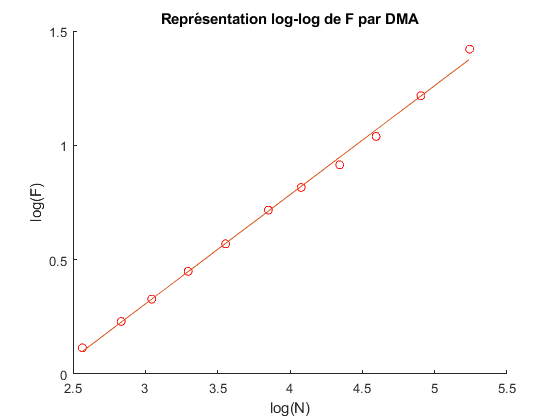
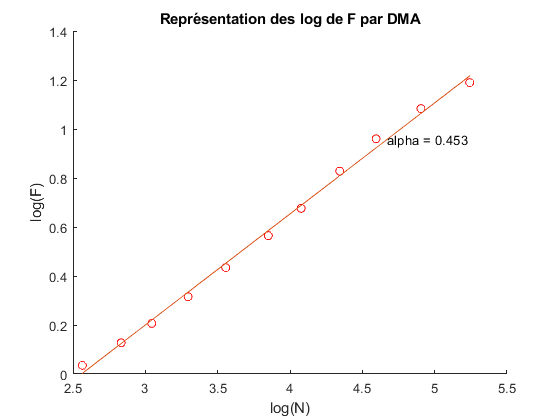
Fin projet

diff --git a/main.m b/main.m
@@ -7,7 +7,27 @@ M = 2001;
 bb1 = randn(1, M);
 bb2 = 9 * randn(1,M) + 7;
 
-%% représentations fréquentielles
+%% plot bb
+
+plot(bb1);
+xlabel('Temps (s)');
+ylabel('A');
+xlim([0;M]);
+xticks([0,500,1000,1500,2000])
+xticklabels({'0', '0.5', '1', '1.5', '2'});
+title("Représentation bruit blanc centré");
+%% tf bb
+
+tf = fft(bb1(:));
+
+plot(fftshift(abs(tf)));
+xlim([0, 2001]);
+xticks([0, 1000, 2001]);
+xticklabels(["-0.5", "0", "0.5"]);
+ylabel("|TF(y)|");
+xlabel("Fréquences (Hz)");
+
+%% Spectrogrammes
 
 clc
 clear all
@@ -21,46 +41,36 @@ bb2 = 9 * randn(1,M) + 7;
 
 % spectrogramme bb1
 figure, 
-subplot(2,1,1);
-plot(bb1);
-xlabel('Temps en secondes');
-ylabel('Intensité signal');
-xlim([0;M]);
-xticks([0,500,1000,1500,2000])
-xticklabels({'0', '0.5', '1', '1.5', '2'});
-xlabel('Temps en secondes');
-ylabel("A");
-title("Représentation bruit blanc centré");
-
-subplot(2,1,2);
 spectrogram(bb1, sqrt(M), 'yaxis');
 xlabel('Temps en secondes');
 ylabel('Frequences');
 xlim([0;M]);
 xticks([0,500,1000,1500,2000])
 xticklabels({'0', '0.5', '1', '1.5', '2'});
+title("Bruit blanc centré");
 
 
 % spectrogramme bb2
 figure, 
-subplot(2,1,1);
-plot(bb2);
-xlim([0;M]);
-xticks([0,500,1000,1500,2000])
-xticklabels({'0', '0.5', '1', '1.5', '2'});
-xlabel('Temps en secondes');
-ylabel("A");
-title("Représentation bruit blanc non-centré");
-
-subplot(2,1,2);
-spectrogram(bb2, sqrt(M), 'yaxis');
+spectrogram(bb2 - mean(bb2), sqrt(M), 'yaxis');
 xlabel('Temps en secondes');
 ylabel('Frequences');
 xlim([0;M]);
 xticks([0,500,1000,1500,2000]);
 xlabel('Temps en secondes');
 xticklabels({'0', '0.5', '1', '1.5', '2'});
+title("Bruit blanc non-centré");
 
+% spectrogramme bb2 recentré
+figure, 
+spectrogram(bb2 - mean(bb2), sqrt(M), 'yaxis');
+xlabel('Temps en secondes');
+ylabel('Frequences');
+xlim([0;M]);
+xticks([0,500,1000,1500,2000]);
+xlabel('Temps en secondes');
+xticklabels({'0', '0.5', '1', '1.5', '2'});
+title("Bruit blanc recentré");
 %% Etapes DFA
 
 clc
@@ -119,7 +129,8 @@ plot(logN, logF, 'o');
 plot(logN, fit, 'r');
 xlabel('log( N )');
 ylabel('log( F(N) )');
-title("Représentation log-log de F par DFA");
+title("Représentation des log de F par DFA");
+text(logN(9), logF(9), sprintf("   alpha = %.3f", alpha));
 hold off
 
 %% représentation profil + fit
@@ -131,7 +142,7 @@ warning('off', 'all');
 M = 2001;
 bb1 = randn(1, M);
 bb2 = 9 * randn(1,M) + 7;
-N = 189;
+N = 64;
 L = floor(M/N);
 
 profilY = ProfilY(bb1, M);
@@ -173,6 +184,38 @@ ylabel("A");
 xlabel("Temps (s)");
 hold off
 
+% comparaison fit pour N différents
+
+profil = ProfilY(bb1, M);
+fit1 = CalculFit(bb1, M, 65, floor(M/65));
+fit2 = CalculFit(bb1, M, 189, floor(M/189));
+
+figure,
+subplot(2,1,1),
+hold on
+plot(profil), xlim([0,2001]);
+plot(fit1, 'r');
+
+xlim([0;M]);
+xticks([0,500,1000,1500,2000])
+xticklabels({'0', '0.5', '1', '1.5', '2'});
+ylabel("A");
+xlabel("Temps (s)");
+title("Tendance avec N = 65");
+hold off
+
+subplot(2,1,2),
+hold on
+plot(profil), xlim([0,2001]);
+plot(fit2, 'r');
+
+xlim([0;M]);
+xticks([0,500,1000,1500,2000])
+xticklabels({'0', '0.5', '1', '1.5', '2'});
+ylabel("A");
+xlabel("Temps (s)");
+title("Tendance avec N = 189");
+hold off
 %% DFA statistiques sur la régularité 
 
 clc
@@ -335,7 +378,8 @@ plot(logN1, logF1, 'or');
 plot(logN1, fit1);
 ylabel("log(F)");
 xlabel("log(N)");
-title("Représentation log-log de F par DMA");
+title("Représentation des log de F par DMA");
+text(logN1(9), logF1(9), sprintf("   alpha = %.3f", alpha1));
 hold off
 
 %% DMA statistiques
@@ -407,7 +451,7 @@ xticklabels({'DFA', 'DMA'});
 ylabel("Alpha");
 title("Alphas moyens");
 
-%% spectrogramme signal réel
+%%  TF + spectrogramme signal réel
 
 clc
 clear
@@ -417,9 +461,10 @@ M = 2001;
 data = load('dataEEG2020.mat');
 y = cell2mat(data.dataEEG2020e7(2,1))';
 
-% spectrogramme bb1
+
+% plot signal 
 figure,
-subplot(2,1,1);
+subplot(3,1,1);
 plot(y);
 xlabel('Temps en secondes');
 ylabel('Intensité signal');
@@ -427,8 +472,20 @@ xlim([0;M]);
 xticks([0,500,1000,1500,2000])
 xticklabels({'0', '0.5', '1', '1.5', '2'});
 
-subplot(2,1,2);
-spectrogram(y, sqrt(M), 'yaxis');
+% TF
+tf = fft(y);
+
+subplot(3,1,2);
+plot(fftshift(abs(tf)));
+xlabel('Fréquences normalisées');
+ylabel('|TF(y)|');
+xlim([0;M]);
+xticks([0,1000,2000])
+xticklabels({'-0.5', '0', '0.5'});
+
+% spectrogram
+subplot(3,1,3);
+spectrogram(y - mean(y), sqrt(M), 'yaxis');
 xlabel('Temps en secondes');
 ylabel('Frequences');
 xlim([0;M]);
@@ -638,7 +695,7 @@ xticklabels({'DFAe1', 'DFAe2','DMAe1','DMAe2'});
 
 
 display(df);
-%writetable(df, "data_eeg.csv");
+% writetable(df, "data_eeg.csv");
 
 %% scatterplots
 
@@ -653,9 +710,11 @@ subplot(2,1,1);
 hold on
     plot(a, "r");
     plot(b, "g");
+    yline(0.85, 'p');
     xlim([0,8]);
     ylabel("Alphas");
     title("Regularité DFA e1");
+    legend("e1 etat A", "e1 etat B");
 hold off
 
 %e2 DFA
@@ -669,6 +728,7 @@ hold on
     xlim([0,8]);
     ylabel("Alphas");
     title("Regularité DFA e2");
+    legend("e2 etat A", "e2 etat B");
 hold off
 
 %e1 DMA
@@ -683,6 +743,7 @@ hold on
     xlim([0,8]);
     ylabel("Alphas");
     title("Regularité DMA e1");
+    legend("e1 etat A", "e1 etat B");
 hold off
 
 %e2 DMA
@@ -696,5 +757,6 @@ hold on
     xlim([0,8]);
     ylabel("Alphas");
     title("Regularité DMA e2");
+    legend("e2 etat A", "e2 etat B");
 hold off
 
